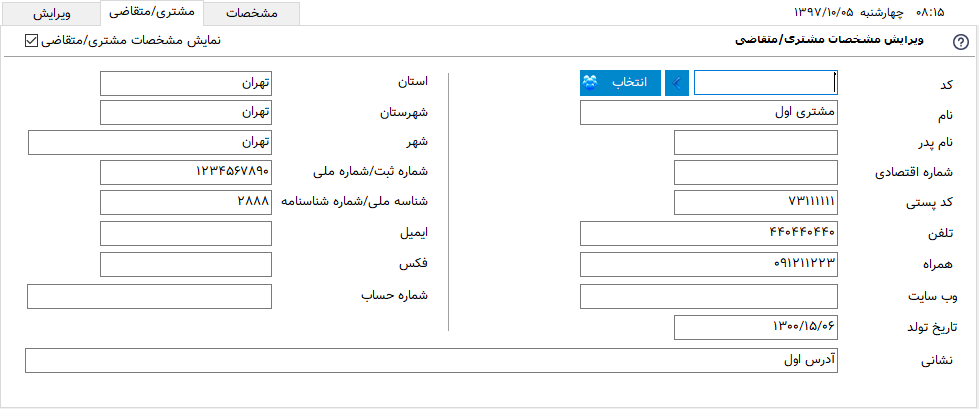
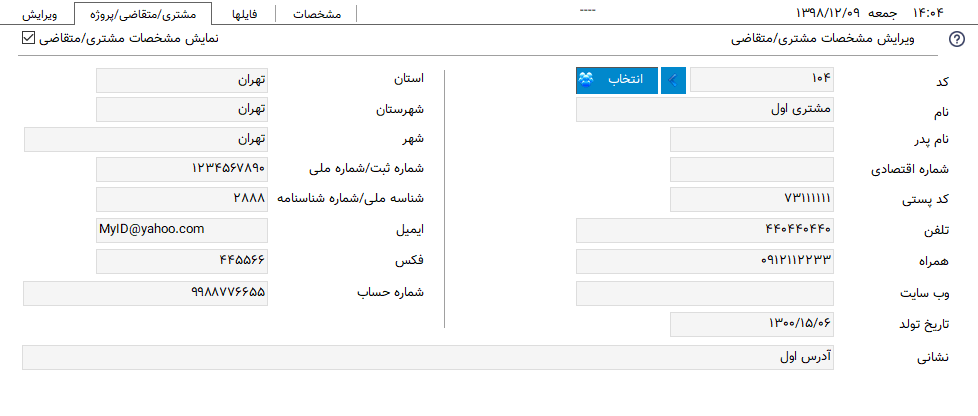
B705

diff --git a/docs/source/conf.py b/docs/source/conf.py
@@ -20,11 +20,11 @@
 # -- Project information -----------------------------------------------------
 
 project = u' راهنمای نرم افزار فاکتور'
-copyright = u'2019, Mohsensoft'
+copyright = u'2020, Mohsensoft'
 author = u'Mohsen Bahraminejad, Mohammad reza khalifeh'
 
 # The short X.Y version
-version = u'2.5'
+version = u'2.6'
 # The full version, including alpha/beta/rc tags
 release = u'.rst'
 

diff --git a/docs/source/file-manager.rst b/docs/source/file-manager.rst
@@ -1,0 +1,99 @@
+.. meta::
+    :description: مدیریت بر لیست مشتری متغاضی ها در نرم افزار فاکتور
+
+.. _file-manager:
+
+مدیریت فایل
+=========================
+.. image:: images/tab_file.png
+    :alt: پنجره مشتری/متقاضی
+    :align: center
+
+| در این قسمت امکانات متعدد و پیشفرته ای برای مدیریت، نمایش و جستجوی فایل در نظر گرفته شده است.
+| براحتی و بدون نیاز به نصب نرم افزار های خاص یک فایل، ده ها نوع فایل مختلف را میتوانید مشاهده کنید و بدون باز کردن فایلها بصورت دسته جمعی و یکجا محتوای آنها نمایش داده می شود.
+| بدون اینکه نگران گم شدن، زیاد شدن، شلوغ شدن و بهم ریختگی فایلهای یک مشتری یا پروژه باشید تنها میتوانید روی انجام کارتان تمرکز کنید و هر فایل را در محل مخصوص به همان مشتری یا پروژه ذخیره و مدیریت نمایید.
+| در نحوه نمایش فایلها علاوه بر حالتهای معمول لیستی و جزئیات دو حالت گالری نیز برای نمایش بزرگتر محتوا و استفاده حداکثری از فضای نمایش وجود دارد.
+| همچنین امکانات پیشرفته ای برای جتجوی یک فولدر در نظر گرفته شده است که حتما از آن شگفت زده خواهید شد.
+| علاوه بر موارد بالا امکاناتی نظیر فیلتر بر اساس نوع های اصلی فایل، انیمیشن هنگام جستجو، نمایش تاریخ های مشخصات فایل مانند تاریخ آخرین ویرایش بصورت شمسی و دیدن پیشنمایش بزرگتر از فایل انتخابی نیز وجود دارد.
+
+.. _file-manager-file-preview:
+
+نمایش محتوای فایل
+---------------------
+در برنامه امکان نمایش فرمتهای مختلف زیر  بصورت مستقل وجود دارد، به مرور فرمت های بیشتری اضافه خواهد شد :
+
+* **تصویر :** شامل انواع فرمت های نمایش و ویرایش عکس
+
+    .. code-block:: bat
+
+        psd, png, bmp, gif, jpg, jpeg, jpe, tif, tiff, psb 
+        ico, cur, fax, g3n, g3f, xif, jif, pcx, bmp, dib, rle
+        dicom, v2, wmf, emf, tga, targa, vda, icb, vst, pix, dcm
+        pxm, ppm, pgm, pbm, wbmp, jp2, j2k, jpc, j2c, dcx, dic
+        crw, cr2, dng, nef, raw, raf, x3f, orf, srf, mrw, dcr
+        bay, pef, sr2, arw, kdc, mef, 3fr, k25, erf, cam, cs1
+        dc2, dcs, fff, mdc, mos, nrw, ptx, pxn, rdc, rw2, rwl
+        iiq, srw, iev, all, ien, imageen, lyr, wdp
+        hdp, jxr, dds, heic, heif, heics, avcs, heifs
+
+
+* **طراحی :** شامل انواع فرمت های طراحی دو بعدی و سه بعدی
+
+    .. code-block:: bat
+
+        dwg, dxf, dwt, svg, svgz, stl, dwfx, dwf, w2d, cgm, rtl, spl, prn, gl2, gl
+        hpgl2, hpgl, hp3, hp2, hp1, hpp, hp, plo, hpg, hg, hgl, plt, pcl, gp2 
+
+
+* **ویدئو :** شامل انواع فرمت های ویدئویی مانند
+
+    .. code-block:: bat
+
+        wmv, mpg, mpeg, avi
+
+
+* **اسناد :** شامل اسناد رایج پر استفاده
+
+    .. code-block:: bat
+
+        pdf, docx, doc
+
+
+| از کاربرد های این امکان میتوان به مدیریت فایلهای مشتریان یک عکاسی و یا یک طراح نام برد.
+
+
+.. _file-manager-manage:
+
+مدیریت فایل
+---------------
+علاوه بر امکان استفاده معمول و روزمره از قسمت "فایل" وقتی مشتری/متقاضی/پروژه ای انتخاب میکنید اگر به آن مشتری کد اختصاص داده باشید نرم افزار پوشه ای در محل پوشه اصلی فایلهای مشتری/متقاضی/پروژه ها (که در :ref:`پنجره تنظیمات<setting-save>` آن را مشخص میکنید) ایجاد مینماید و پس آن  محل را نمایش میدهد بدون آنکه نیاز باشد شما به محل پوشه مشتری/متقاضی/پروژه بروید.
+
+| به گزینه قرمز رنگ موجود در سمت چپ نوار بالایی فایلها در تصویر بالا دقت کنید، در هر زمان اگر در پوشه مربوط به مشتری/متقاضی/پروژه ی انتخاب شده باشید به رنگ سبز و در غیر اینصورت قرمز خواهد شد.
+| با کلیک بر روی این گزینه (و یا همانطور که گفته شد انتخاب یک مشتری/متقاضی/پروژه) به پوشه مربوط به آن مشتری/متقاضی/پروژه خواهید رفت.
+
+| در پوشه هر مشتری/متقاضی/پروژه یک پوشه با نام "Faktor" توسط نرم افزار ایجاد میشود، کاربرد این پوشه ذخیره تمام فاکتور های مربوط یه مشتری/متقاضی/پروژه انتخاب شده در آن است،
+| در صورتی که از گزینه "ذخیره در پوشه کاربر..." در منوی اصلی برنامه برای ذخیره کردن استفاده کنید این پوشه بصورت پیشفرض نمایش داده خواهد شد.
+
+
+.. _file-manager-search:
+
+جستجو
+---------------
+
+جستجو در میان فایلهای پوشه نمایش داده شده علاوه بر حالت معمول جستجو یعنی نوشتن قسمتی یا کل نام مورد جستجو امکانات زیر نیز در آن وجود دارد که میتوانید بسیار راحت و پیشرفته بدنبال فایل مورد نظرتان بگردید:
+
+| با وارد کردن کاراکتر های زیر دستورات مختلفی را به جستجوگر میدهید:
+
+* **\* :** با قرار دادن ستاره در قسمتی از متن جستجو به جستجوگر میگویید که جای این ستاره کاراکترهایی وجود دارد و یا ممکن است کاراکتری وجود نداشته باشد.
+    
+    | برای مثال با جستجوی "پ*ر" موارد "پر" و "پنیر" در صورت وجود نمایش داده میشوند.
+
+* **\# :** این کاراکتر مانند ستاره میباشد با این تفاوت که میبایست حداقل یک حرف بجای آن وجود داشته باشد.
+
+    | برای مثال با جستجوی "پ#ر" موارد "پدر" و "پنیر" در صورت وجود نمایش داده میشوندولی "پر" نمایش داده نخواهد شد.
+
+* **\? :** این کاراکتر به جستجوگر میگوید که بجای آن فقط میتواند یک حرف وجود داشته باشد و نه کمتر و نه بیشتر.
+
+    | برای مثال با جستجوی "پ?ر" موارد "پدر" و "پسر" در صورت وجود نمایش داده میشوند و مواردی مانند "پر" یا "پودر" نمایش داده نخواهند شد.
+
+| همچنین امکان استفاده ترکیبی یا تکراری نیز در یک جستجو وجود دارد.

diff --git a/docs/source/window-bank.rst b/docs/source/window-bank.rst
@@ -27,6 +27,27 @@
 
 | با کلیک بر روی تصویر کالا، تصویری بزرگتر نمایش داده خواهد شد.
 
+.. _bank_select:
+
+انتخاب
+`````````````
+| **انتخاب کالا یا خدمات :** علاوه بر انتخاب کالا یا خدمات از این پنجره میتوانید این کار را بصورت سریع در پنجره اصلی و در جدول با امکان :ref:`انبار سریع<qbank>` داشته باشید، در انبار داشتن تعداد سفارش بیش از صفر به منزله انتخاب برای افزودن به برگه می باشد . این امر به چهار صورت امکان پذیر است :
+
+* کافیست برای افزایش مقدار سفارش روی هر مورد دلخواه کلیک نمایید تا تعداد سفارش آن افزایش یابد . برای کاهش تعداد سفارش راست کلیک کفایت می کند .
+* کالا یا خدمات مورد نظر را انتخاب نموده و با استفاده از "تعداد" تعداد سفارش مورد نظر را تعیین کنید .
+* کالا یا خدمات مورد نظر را انتخاب نموده و در کادر "تعداد سفارش" تعداد مورد نظر را وارد کرده و کلید "اینتر"( :code:`Enter` ) را بفشارید .
+* بعد از جستجو بدون ترک کادر جستجو می توانید با هر بار زدن کلید "اینتر" ( :code:`Enter` ) یکی به تعداد سفارش گزینه انتخاب شده بیفزایید.
+
+.. note::  توصیه می شود بصورت کامل تمام موارد درخواستی برای افزودن به فاکتور را در یکبار اجرای پنجره انبار انتخاب نمایید.
+.. note:: در صورت انتخاب گزینه "افزودن و اعمال به انبار" تعداد موارد انتخابی از انبار کاسته خواهد شد .
+.. note:: شما نمی توانید تعداد سفارشی بیش از موجودی آن کالا یا خدمات داشته باشید.
+
+| **افزودن به برگه :** پس از انتخاب کالا (ها) ی مورد نظر می توانید آن را به برگه اضافه کنید . این کار به سه روش مجزا امکان پذیر است :
+
+* **افزودن و اعمال به انبار :** با این گزینه تعداد کالا یا خدمات انتخابی از لیست موجودی انبار کاسته می شود و به برگه اضافه می گردد .
+* **افزودن :** این گزینه شبیه به مورد قبلیست با این تفاوت که تغییری در موجودی انبار اعمال نمیشود . کاربرد این گزینه میتواند برای مثال صدور پیش فاکتور باشد .
+* **افزودن بدون قیمت :** این گزینه شبیه به مورد قبلیست با این تفاوت که قیمت کالا یا خدمات نیز به برگه اضافه نمی شود.
+
 .. _bank_search:
 
 جستجو
@@ -85,27 +106,6 @@
 * چک کنید تنایج جستجوی نمایش داده شده همان موارد مورد نظر هستند،
 * در سطر آخر به ترتیب : "قیمت فروش"، "%+" و "2" را وارد کرده
 * در نهایت گزینه "تنظیم" را انتخاب و عملیات را تایید کنید.
-
-.. _bank_select:
-
-انتخاب
-`````````````
-| **انتخاب کالا یا خدمات :** علاوه بر انتخاب کالا یا خدمات از این پنجره میتوانید این کار را بصورت سریع در پنجره اصلی و در جدول با امکان :ref:`انبار سریع<qbank>` داشته باشید، در انبار داشتن تعداد سفارش بیش از صفر به منزله انتخاب برای افزودن به برگه می باشد . این امر به چهار صورت امکان پذیر است :
-
-* کافیست برای افزایش مقدار سفارش روی هر مورد دلخواه کلیک نمایید تا تعداد سفارش آن افزایش یابد . برای کاهش تعداد سفارش راست کلیک کفایت می کند .
-* کالا یا خدمات مورد نظر را انتخاب نموده و با استفاده از "تعداد" تعداد سفارش مورد نظر را تعیین کنید .
-* کالا یا خدمات مورد نظر را انتخاب نموده و در کادر "تعداد سفارش" تعداد مورد نظر را وارد کرده و کلید "اینتر"( :code:`Enter` ) را بفشارید .
-* بعد از جستجو بدون ترک کادر جستجو می توانید با هر بار زدن کلید "اینتر" ( :code:`Enter` ) یکی به تعداد سفارش گزینه انتخاب شده بیفزایید.
-
-.. note::  توصیه می شود بصورت کامل تمام موارد درخواستی برای افزودن به فاکتور را در یکبار اجرای پنجره انبار انتخاب نمایید.
-.. note:: در صورت انتخاب گزینه "افزودن و اعمال به انبار" تعداد موارد انتخابی از انبار کاسته خواهد شد .
-.. note:: شما نمی توانید تعداد سفارشی بیش از موجودی آن کالا یا خدمات داشته باشید.
-
-| **افزودن به برگه :** پس از انتخاب کالا (ها) ی مورد نظر می توانید آن را به برگه اضافه کنید . این کار به سه روش مجزا امکان پذیر است :
-
-* **افزودن و اعمال به انبار :** با این گزینه تعداد کالا یا خدمات انتخابی از لیست موجودی انبار کاسته می شود و به برگه اضافه می گردد .
-* **افزودن :** این گزینه شبیه به مورد قبلیست با این تفاوت که تغییری در موجودی انبار اعمال نمیشود . کاربرد این گزینه میتواند برای مثال صدور پیش فاکتور باشد .
-* **افزودن بدون قیمت :** این گزینه شبیه به مورد قبلیست با این تفاوت که قیمت کالا یا خدمات نیز به برگه اضافه نمی شود.
 
 .. _bank_defprice:
 

diff --git a/docs/source/window-settings.rst b/docs/source/window-settings.rst
@@ -22,6 +22,8 @@
 | **تغییر خودکار اندازه ستونها :** اگر این گزینه فعال باشد هنگام تغییر اندازه پنجره اصلی، ستونهای جدول نیز بصورت خودکار به اندازه پیشفرض تعیین شده تنظیم می شوند.
 | **انبار سریع :** این امکان قابلیتی برای انتخاب سریع کالا/خدمات در جدول میباشد، توسط آن بسیار سریع کالا/خدمات مورد نظرتان را بدون رفتن به پنجره انبار انتخاب میکنید، تعداد مورد نیاز را تنظیم و از موجودی انبار کم میکنید. :ref:`اطلاعات بیشتر...<qbank>`
 | **بی صدا :** در صورت فعال بودن این گزینه صدا های اعلان پخش نخواهند شد.
+| **نمایش پیغام انتخاب مشتری/مقاضی :** در صورتی که این گزینه فعال باشد اگر در هنگام گرفتن خروجی مشتریی انتخاب نشده باشد پیغامی نمایش داده خواهد شد.
+
 
 .. _setting-defaults:
 
@@ -36,7 +38,8 @@
 | **واحد کالا :** توسط این قسمت میتوانید لیست واحد های کالا را خصوصی سازی کنید، آنها را پاک کنید، جابجا کنید و یا واحدی جدید به آنها بیفزایید، کلیدهای کنار لیست به ترتیب از بالا به پایین برای : افزودن واحد جدید، حذف واحد انتخابی، جابجایی به بالا، جابجایی به پایین و برگرداندن لیست به حالت پیشفرض میباشد .
 | **واحد کالای پیشفرض :** توسط این گزینه میتوانید درون برگه هایی که واحد کالا دارند اگر بصورت پیش فرض در برگه مشخص نشده باشد واحد کالای پیش فرض را مشخص کنید که موقع ورود به فیلد واحد کالا بصورت خودکار درج شود .
 | **عنوان :** توسط این قسمت میتوانید لیست عنوان های موجود در نرم افزار را خصوصی سازی کنید، آنها را پاک کنید، جابجا کنید و یا عنوان جدیدی به آنها بیفزایید، کلیدهای کنار لیست به ترتیب از بالا به پایین برای : افزودن عنوان جدید، حذف عنوان انتخابی، جابجایی به بالا، جابجایی به پایین و برگرداندن لیست به حالت پیشفرض میباشد .
-| در قسمت **پیشفرض** نیز میتوانید عنوان پیشفرض را برای برگه کنونی انتخاب نمایید.
+| **پیشفرض** در قسمت نیز میتوانید عنوان پیشفرض را برای برگه کنونی انتخاب نمایید.
+
 
 .. _setting-save:
 
@@ -64,6 +67,9 @@
 | از گزینه قرمز رنگ موجود در این کادر برای بازگشت به پوشه پیشفرض اطلاعات استفاده کنید.
 | توصیه میشود اگر اطلاع زیادی از این گزینه ندارید قبل از هر اقدامی یک :ref:`پشتیبان<backup>` از اطلاعات تهیه نمایید.
 
+| **آدرس پوشه اصلی فایلهای مشتری/متقاضی/پروژه:** آدرس محل ذخیره و مدیریت فایلهای مشتری/متقاضی/پروژه ها، این آدرس محلی است که در قسمت "فایل" در پنجره اصلی بصورت پوشه ریشه در نظر گرفته شده و هر مشتری/متقاضی/پروژه با یک پوشه مجزا با نام کد آن مشتری/متقاضی/پروژه از سایرین جدا شده و نمایش داده می شود.
+| وارد کردن این آدرس ضروری است، سعی کنید محلی را انتخاب نمایید که مطمئن باشد و بهتر است این محل در درایوی که در آن ویندوز نصب کرده اید نباشد تا با تعویض ویندوز مشکلی ایجاد نگردد.
+| همچنین پشتیبانگیری از این فایلها به عهده کاربر نرم افزار می باشد.
 
 .. _setting-calc:
 
@@ -104,6 +110,7 @@
 | **تغییر خودکار ارتفاع سطرها :** با فعال کردن این گزینه که از منوی راست کلیک جدول نیز قابل دسترسی میباشد در هنگام وارد کردن متن در جدول اگر متن وارد شده از اندازه سطر بیشتر باشد ارتفاع سطر مورد نظر به اندازه متن وارد شده تنظیم می شود.
 | **تغییر خودکار انداره ستون ها:** با فعال کردن این گزینه که از منوی راست کلیک جدول نیز قابل دسترسی میباشد در هنگام تغییر اندازه پنجره اصلی ستونهای جدول نیز با درصد اندازه پیشفرض برگه تغییر اندازه خواهند داد.
 | **عدم نمایش اطلاعات مختصر مشتری/ متقاضی در بالای جدول:** اگر این گزینه غیر فعال باشد اطلاعات مختصری از مشتری/متقاضی انتخاب شده در برگه هایی که این حالت را دارند در قسمت بالای جدول اصلی نمایش داده می شود.
+| **حالت تاریک :** نمایش نرم افزار در حالت تیره، توصیه میشود در محیط های با نور کم برای کاهش فشار بر چشم این حالت را فعال نمایید.
 
 
 .. _setting-numbering:

diff --git a/docs/source/changes-log.rst b/docs/source/changes-log.rst
@@ -6,7 +6,45 @@
 تغییرات ویرایش ها
 ==========================
 
+**ویرایش 4.5**
+-------------------
+
+* افزوده شدن امکان حالت تاریک یا شب برای کاهش فشار بر چشم در نور کم. |bar_settings|
+* افزودن شدن امکان مدیریت فایل مشتری/متقاضی/پروژه ها. |file_manager|
+* امکان نمایش مستقل ده ها نوع فرمت فایل بدون نیاز به نصب اجرا کننده آن فایلها. |file_manager|
+* امکان نمایش محتوای فایل ها بر روی آیکون آنها بدون باز کردنشان. |file_manager|
+* نمایش انواع فرمت های تصویر و ویرایش تصویر مانند فایلهای فوتوشاپ، و انواع دوربین مانند : psd, png, bmp, gif, jpg, jpeg, jpe, tif, tiff, raw, ... .
+* نمایش انواع فرمت های طراحی دو بعدی و سه بعدی مانند : dwg, dxf, dwt, svg, svgz, stl, dwfx, dwf, ... .
+* نمایش انواع فرمت های ویدئویی مانند : wmv, mpg, mpeg, avi, ... .
+* نمایش انواع فرمت های اسناد مانند : pdf, docx, ... .
+* امکان جستجویی پیشرفته در میان فایلها. |file_manager_search|
+* امکان نمایش فایلها در حالت های کوچک و بسیار بزرگ.
+* امکان فیلتر کردن و دسته بندی فایلها بر اساس عنوان هایی نظیر تصویر، ویدئو، اسناد، صوتی، فاکتور و طراحی.
+* نمایش مشخصات فایل مانند نمایش تاریخ آخرین ویرایش و دیگر تاریخ ها به شمسی.
+* افزوده شدن امکان نمایش پیغام هشدار برای عدم انتخاب مشتری/متقاضی/پروژه هنگام گرفتن خروجی. |settings_general|
+
+
+.. |bar_settings| raw:: html
+
+    <a class="more_info" href="https://mohsensoft.com/docs/faktor/window-main.html#bar-settings" target="_blank"></a>
+
+
+.. |file_manager| raw:: html
+
+    <a class="more_info" href="https://mohsensoft.com/docs/faktor/file-manager.html" target="_blank"></a>
+
+
+.. |file_manager_search| raw:: html
+
+    <a class="more_info" href="https://mohsensoft.com/docs/faktor/file-manager.html#file-manager-search" target="_blank"></a>
+
+
+.. |settings_general| raw:: html
+
+    <a class="more_info" href="https://mohsensoft.com/docs/faktor/window-settings.html#setting-general" target="_blank"></a>
+
 **ویرایش 4.4**
+-------------------
 
 * افزوده شدن امکان تغییر گروهی قیمت ها. |bank_change_price|
 * اضافه شدن پنجره شروع برای انتخاب سریع فایلهای باز شده قبلی و برگه های موجود.
@@ -41,6 +79,7 @@
     <a class="more_info" href="https://mohsensoft.com/docs/faktor/advanced.html#data-formatting" target="_blank"></a>
 
 **ویرایش 4.3:**
+-------------------
 
 * افزوده شدن امکان خروجی گرفتن از اطلاعات مشتری/متقاضی ها. |cust|
 * افزوده شدن امکان نوشتن متون پیشرفته در فیلدهای مشخصات.
@@ -64,6 +103,7 @@
     <a class="more_info" href="https://mohsensoft.com/docs/faktor/window-settings.html#setting-calc" target="_blank"></a>
 
 **ویرایش 4.2:**
+-------------------
 
 * رابط کاربری جدید و بهینه شده.
 * افزوده شدن امکان انتخاب سریع و مستقیم از انبار در داخل جدول. |qbank|
@@ -96,6 +136,7 @@
 
 
 **ویرایش 4.0.0.430:**
+-----------------------------
 
 * اصلاح جستجوی انبار.
 * افزوده شدن امکان شمارش کلمات یک متن برای برگه هایی که به آن نیاز دارند.
@@ -106,6 +147,7 @@
 
 
 **ویرایش 4.0.0.420:**
+---------------------------
 
 * افزودن امکان فرمت بندی متن ها مانند ضخیم کردن و یا ایتالیک کردن قسمتی از آن. |formatting|
 * افزوده شدن امکان تغییر رنگ هر قسمت از متن ها. |colorize|

diff --git a/docs/source/window-cust.rst b/docs/source/window-cust.rst
@@ -1,19 +1,19 @@
 .. meta::
-    :description: مدیریت بر لیست مشتری متغاضی ها در نرم افزار فاکتور
+    :description: مدیریت بر لیست مشتری، متقاضی و پروژه ها در نرم افزار فاکتور
 
 .. _window-cust:
 
-پنجره مشتری/متقاضی
+پنجره مشتری/متقاضی/پروژه
 =========================
 .. image:: images/window_cust.png
     :alt: پنجره مشتری/متقاضی
     :align: center
 
-| در این پنجره اعمال متعددی بر روی مشتری/متقاضی قابل انجام می باشد، علاوه بر گزینه هایی که در پنجره قابل مشاهده است گزینه های دیگری در منوی پنجره که توسط کلیک بر روی تصویر سه خطی گوشه سمت راست و بالا وجود دارد قابل دسترس می باشد . کارهایی که با این پنجره قابل انجام می باشند به شرح زیراند :
+| در این پنجره اعمال متعددی بر روی مشتری/متقاضی/پروژه ها قابل انجام می باشد، علاوه بر گزینه هایی که در پنجره قابل مشاهده است گزینه های دیگری در منوی پنجره که توسط کلیک بر روی تصویر سه خطی گوشه سمت راست و بالا وجود دارد قابل دسترس می باشد . کارهایی که با این پنجره قابل انجام می باشند به شرح زیراند :
 
-| **افزودن مشتری/متقاصی جدید :** برای این کار کافیست "جدید" ( یا کلید میانبر :code:`F5`) را انتخاب کرده، فیلد "شماره/کد اشتراک" انتخاب میشود، سپس اطلاعات مورد نظر را وارد کرده و توسط کلید  :code:`Tab` به فیلد بعدی بروید. پس از پایان ورود اطلاعات "ذخیره" ( یا کلید میانبر :code:`F6` ) را انتخاب نمایید تا اطلاعات در رکوردی جدید دخیره شوند.
+| **افزودن مشتری/متقاضی/پروژه جدید :** برای این کار کافیست "جدید" ( یا کلید میانبر :code:`F5`) را انتخاب کرده، فیلد "شماره/کد اشتراک" انتخاب میشود، سپس اطلاعات مورد نظر را وارد کرده و توسط کلید  :code:`Tab` به فیلد بعدی بروید. پس از پایان ورود اطلاعات "ذخیره" ( یا کلید میانبر :code:`F6` ) را انتخاب نمایید تا اطلاعات در رکوردی جدید دخیره شوند.
 
-| **حذف مشتری/متقاضی :** ابتدا مشتری/متقاضی مورد نظر را انتخاب کرده و "حذف" را انتخاب نمایید .
+| **حذف مشتری/متقاضی/پروژه :** ابتدا مشتری/متقاضی مورد نظر را انتخاب کرده و "حذف" را انتخاب نمایید .
 
 | **جستجو :** برای جستجو در بین مشتری/متقاضی ها کافیست در فیلد "جستجو" قسمتی یا کل یکی از اطلاعات مشتری/متقاضی مورد نظر را نوشته و کلید :code:`Enter` را بفشارید، سپس تمام مواردی که با جستجوی شما مطابقت داشت در لیست پایینی نمایش داده می شود، سپس میتوانید توسط موس یا کلیدهای جهتنمای بالا/پایین رکورد مورد نظر را انتخاب کنید .
 

diff --git a/docs/source/backup.rst b/docs/source/backup.rst
@@ -5,6 +5,13 @@
 
 پشتیبان گیری
 =================
+
+.. note::
+    * پشتیبانگیری از هر اطلاعات مهمی یک امر ضروریست و پیشنهاد هر متخصصی در این زمینه پشتیبانگیری روزانه و یا هفتگیست،
+    * طبق یک اصل نانوشته تکنولوژی اگر شما پنج کپی از اطلاعات مهمتان نداشته باشد باید فرض کنید که آن اطلاعات را ندارید.
+    * این موضوع مخصوصا برای سیستم هایی که از حافظه های سخت یا همان هارد دیسکها استفاده میکنند بسیار ضروری تر است.
+    * مسئولیت عدم وجود پشتیبان از اطلاعات مهم بعهده کاربر است و در صورت بروز هر گونه اتفاق بدون اینکه از دستگاه ذخیره کننده استفاده زیادتری انجام دهید به یک مرکز بازیابی اطلاعات مراجعه نمایید.
+
 | برای پشتیبانگیری میتوانید از منوی اصلی برنامه در پنجره اصلی که در گوشه سمت چپ و بالا قرار دارد گزینه "پشتیبانگیری" را انتخاب نمایید.
 | با استفاده از این ابزار می توانید عملیات ساخت نسخه پشتیبان از فایل های اصلی برنامه و همچنین بازگرداندن آنها را انجام دهید.
 | این عملیات از طریق منوی اصلی در گوشه سمت چپ و بالای پنجره اصلی قابل دسترس می باشد.

diff --git a/docs/source/window-main.rst b/docs/source/window-main.rst
@@ -54,6 +54,8 @@
 
 **ذخیره در ... :** از این گزینه برای ذخیره سند موجود در فایلی جدید استفاده نمایید .
 
+**ذخیره در پوشه کاربر ... :** از این گزینه برای ذخیره سند موجود در فایلی جدید در پوشه مخصوص به مشتری/متقاضی/پروژه انتخاب شده استفاده نمایید، برای اطلاعات بیشتر به :ref:`مدیریت فایل<file-manager-manage>` مراجعه نمایید
+
 **رمز فایل :** برای تنظیم، تغییر و برداشتن رمز فایل باز شده از این گزینه استفاده کنید، برای اطلاعات بیشتر به قسمت :ref:`رمزفایل<window-password>` مراجعه نمایید.
 |
 
@@ -139,7 +141,7 @@
 .. _bar-settings:
 
 تنظیمات
-----------
+-----------------
 .. image:: images/bar_settings.png
     :alt: تنظیمات
     :align: center
@@ -151,6 +153,8 @@
 تنظیمات
 ````````````
 **تنظیمات :** برای نمایش :ref:`پنجره تنظیمات<window-settings>` از این گزینه استفاده نمایید . همچنین سه گزینه پرکار برد از این پنجره در این گروه قابل دسترس می باشند.
+
+**حالت تاریک :** نمایش نرم افزار در حالت تیره، توصیه میشود در محیط های با نور کم برای کاهش فشار بر چشم این حالت را فعال نمایید.
 
 .. _bar-settings-margins:
 

diff --git a/docs/source/index.rst b/docs/source/index.rst
@@ -33,6 +33,7 @@
    window-openpage
    window-bank
    window-cust
+   file-manager
    backup
    from-old-version
    import-from-excel
